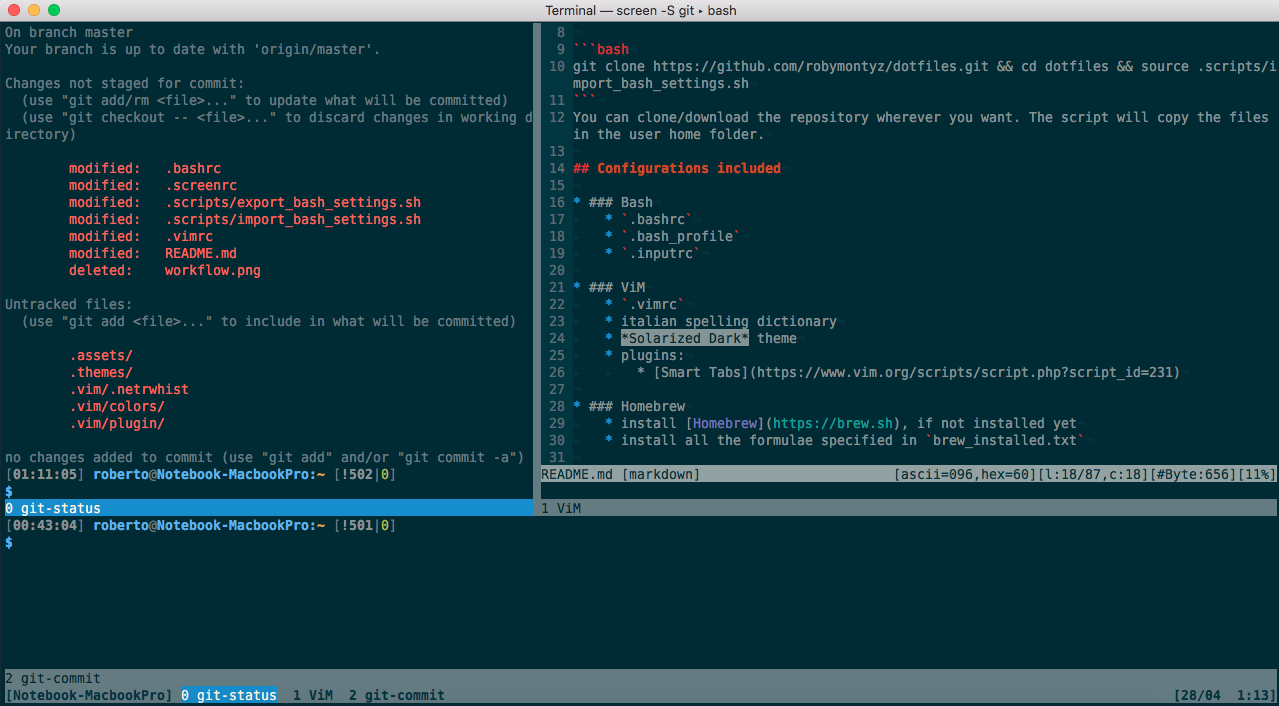
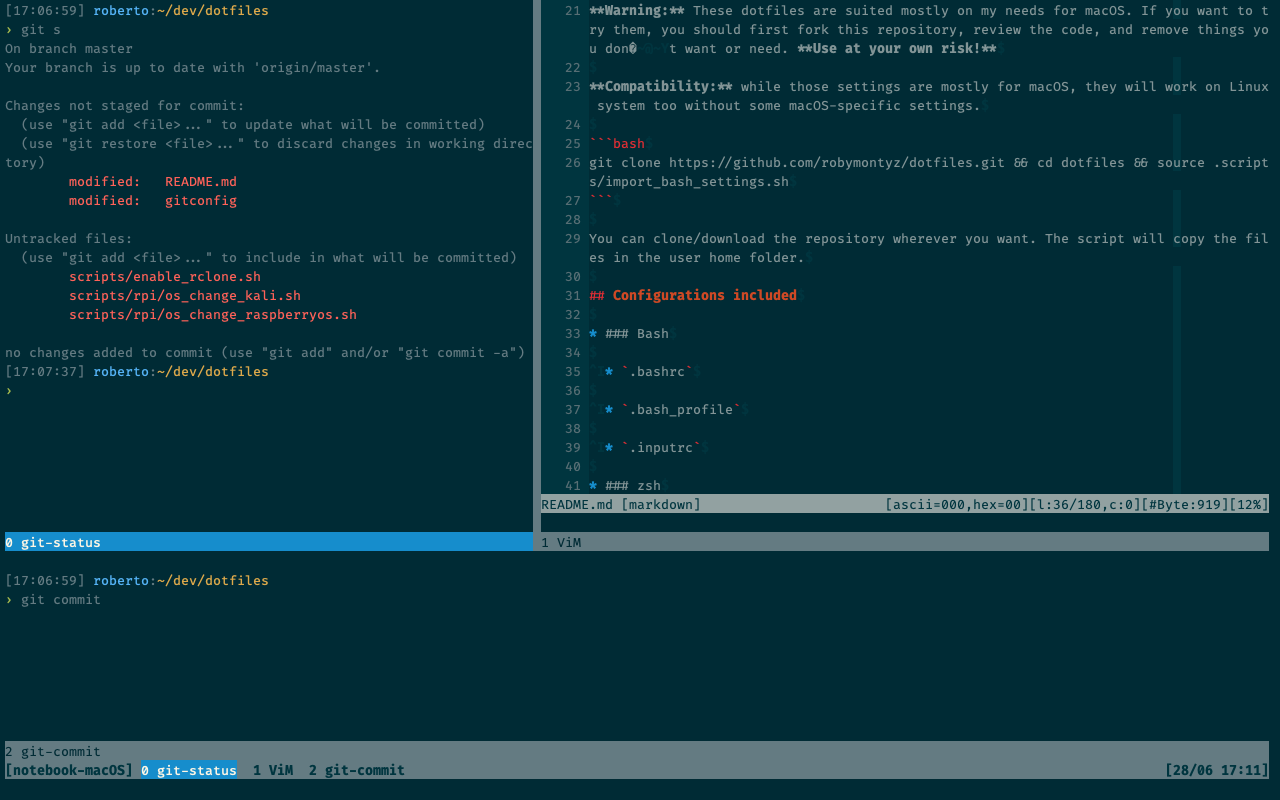
docs: update README to explain new features

Changed region(s): [[0.0, 0.0, 1.0, 0.779], [0.0, 0.9037, 1.0, 0.9972]]

diff --git a/README.md b/README.md
@@ -38,6 +38,12 @@ You can clone/download the repository wherever you want. The script will copy th
 
 	* `.inputrc`
 
+* ### zsh
+
+	* `.zshrc`
+
+	* `.zprofile`
+
 * ### ViM
 
 	* `.vimrc`
@@ -49,24 +55,6 @@ You can clone/download the repository wherever you want. The script will copy th
 	* plugins:
 
 		- [Smart Tabs](https://www.vim.org/scripts/script.php?script_id=231)
-
-* ### Homebrew (macOS only)
-
-	* install [Homebrew](https://brew.sh), if not installed yet
-
-	* install all the formulae specified in `install/brew`
-
-	* install all the casks specified in `install/brew-cask`
-
-* ### mas (macOS only)
-
-	* install [mas](https://github.com/mas-cli/mas), if not installed yet
-
-	* install all the apps specified in `install/mas`
-
-* ### mas (macOS only)
-
-	* install all the [pip](https://pypi.org) modules specified in `install/pip`
 
 * ### Git
 
@@ -90,18 +78,6 @@ You can clone/download the repository wherever you want. The script will copy th
 
 	In a standard macOS installation, GNU Screen version is probably <4.01, so I strongly recommend to install the latest version with [Homebrew](https://brew.sh).
 
-* ### GnuGP
-
-	* `pubring.kbx`
-
-	* `openpgp-revocs.d`
-
-	* `private-keys-v1.d`
-
-	* `ownertrust`
-
-	**N.B.** *My PGP keyring, obviously, is not actually included in this repo but you can add it by yourself inside `.gpg/` folder.*
-
 * ### SSH
 
 	* SSH keys
@@ -109,6 +85,8 @@ You can clone/download the repository wherever you want. The script will copy th
 	* `ssh_config` and `sshd_config`
 
 	**N.B.** *My SSH keys, obviously, are not actually included in this repo but you can add them by yourself inside `.ssh/` folder.*
+
+* ### Various personal shell scripts
 
 * ### Install and export scripts
 
@@ -124,15 +102,19 @@ You can clone/download the repository wherever you want. The script will copy th
 
 	Deprecated in favor of launchd agents.
 
-* ### launchd agents (launchd users or macOS only)
+* ### Homebrew (macOS only)
 
-	`import_bash_settings.sh` will install launchd agents to start some automated script I wrote. You can find the scripts [here](https://github.com/robymontyz).
+	* install [Homebrew](https://brew.sh), if not installed yet
 
-	*If you don't want this feature, you can comment these lines.*
+	* install all the formulae specified in `install/brew`
 
-* ### Terminal.app and XCode *Solarized Dark* themes (macOS only)
+	* install all the casks specified in `install/brew-cask`
 
-	`import_bash_settings.sh` will install *Solarized Dark* color schemes for Terminal.app and XCode.  
+* ### mas (macOS only)
+
+	* install [mas](https://github.com/mas-cli/mas), if not installed yet
+
+	* install all the apps specified in `install/mas`
 
 * ### QuickLook plugins (macOS only)
 
@@ -146,6 +128,38 @@ You can clone/download the repository wherever you want. The script will copy th
 
 	* [QLStephen](https://github.com/whomwah/qlstephen)
 
+* ### launchd agents (launchd users or macOS only)
+
+	`import_bash_settings.sh` will install launchd agents to start some automated script I wrote. You can find the scripts [here](https://github.com/robymontyz).
+
+	*If you don't want this feature, you can comment these lines.*
+
+* ### Screen Savers (macOS only)
+
+	* [October30 by lekevicius](https://github.com/lekevicius/october30)
+
+* ### Terminal.app and XCode *Solarized Dark* themes (macOS only)
+
+	`import_bash_settings.sh` will install *Solarized Dark* color schemes for Terminal.app and XCode.
+
+* ### SublimeText preferences
+
+* ### PyPI
+
+	* install all the [pip](https://pypi.org) modules specified in `install/pip`
+
+* ### GnuGP
+
+	* `pubring.kbx`
+
+	* `openpgp-revocs.d`
+
+	* `private-keys-v1.d`
+
+	* `ownertrust`
+
+	**N.B.** *My PGP keyring, obviously, is not actually included in this repo but you can add it by yourself inside `.gpg/` folder.*
+
 ## Feedback
 
 Suggestions and improvements are [welcome](https://github.com/robymontyz/dotfiles/issues).
@@ -154,7 +168,7 @@ Suggestions and improvements are [welcome](https://github.com/robymontyz/dotfile
 
 Follow me on Twitter: [![twitter](https://img.shields.io/twitter/follow/espadrine.svg?style=social&label=@robymontyz)](https://twitter.com/robymontyz)
 
-## Thanks to…
+## Thanks
 
 * [StackOverflow](https://stackoverflow.com)
 * [sharfah](https://github.com/sharfah/dotfiles) and his fantastic [blog posts](http://fahdshariff.blogspot.it/2011/03/my-bash-profile-part-i.html)
